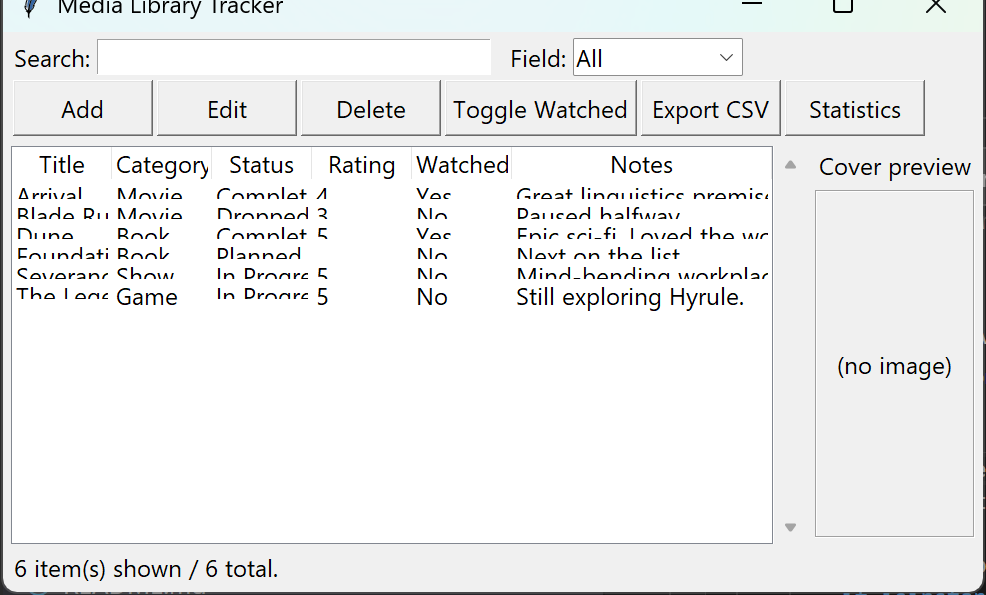
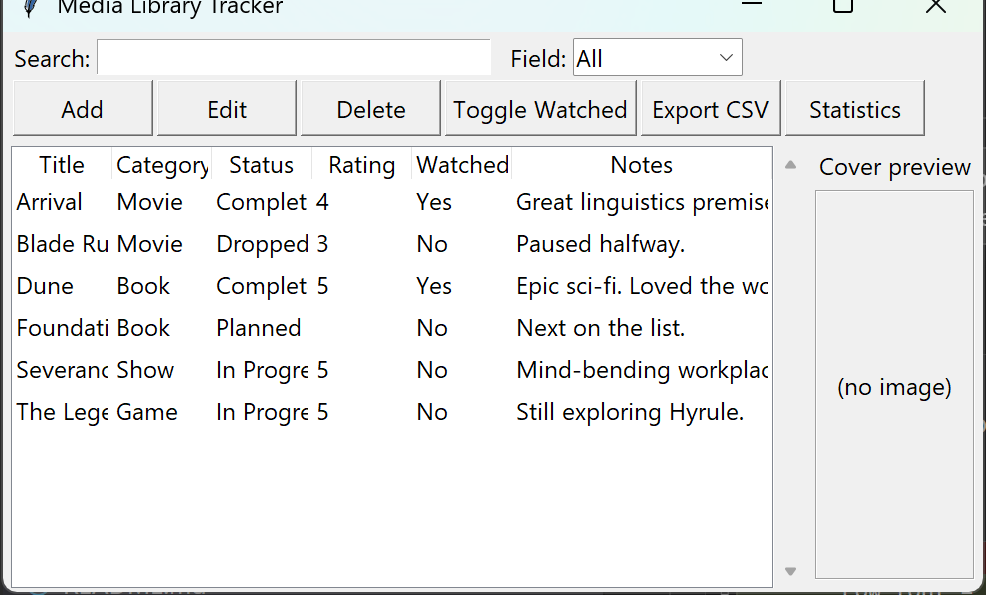
Fix overlapping rows in the item list on high-DPI displays
The Treeview's default row height did not scale with the font size,
causing rows to visually overlap. Set an explicit row height based on
the actual font metrics.

diff --git a/src/gui.py b/src/gui.py
@@ -4,7 +4,7 @@ from __future__ import annotations
 
 import os
 import tkinter as tk
-from tkinter import filedialog, messagebox, ttk
+from tkinter import filedialog, font, messagebox, ttk
 from typing import Optional
 
 from media_item import Category, MediaItem, Status
@@ -148,6 +148,10 @@ class MediaLibraryApp(tk.Tk):
     # Layout
     # ------------------------------------------------------------------
     def _build_layout(self) -> None:
+        style = ttk.Style(self)
+        row_font = font.nametofont("TkDefaultFont")
+        style.configure("Treeview", rowheight=row_font.metrics("linespace") + 10)
+
         search_frame = tk.Frame(self)
         search_frame.pack(fill="x", padx=8, pady=(6, 2))
 
